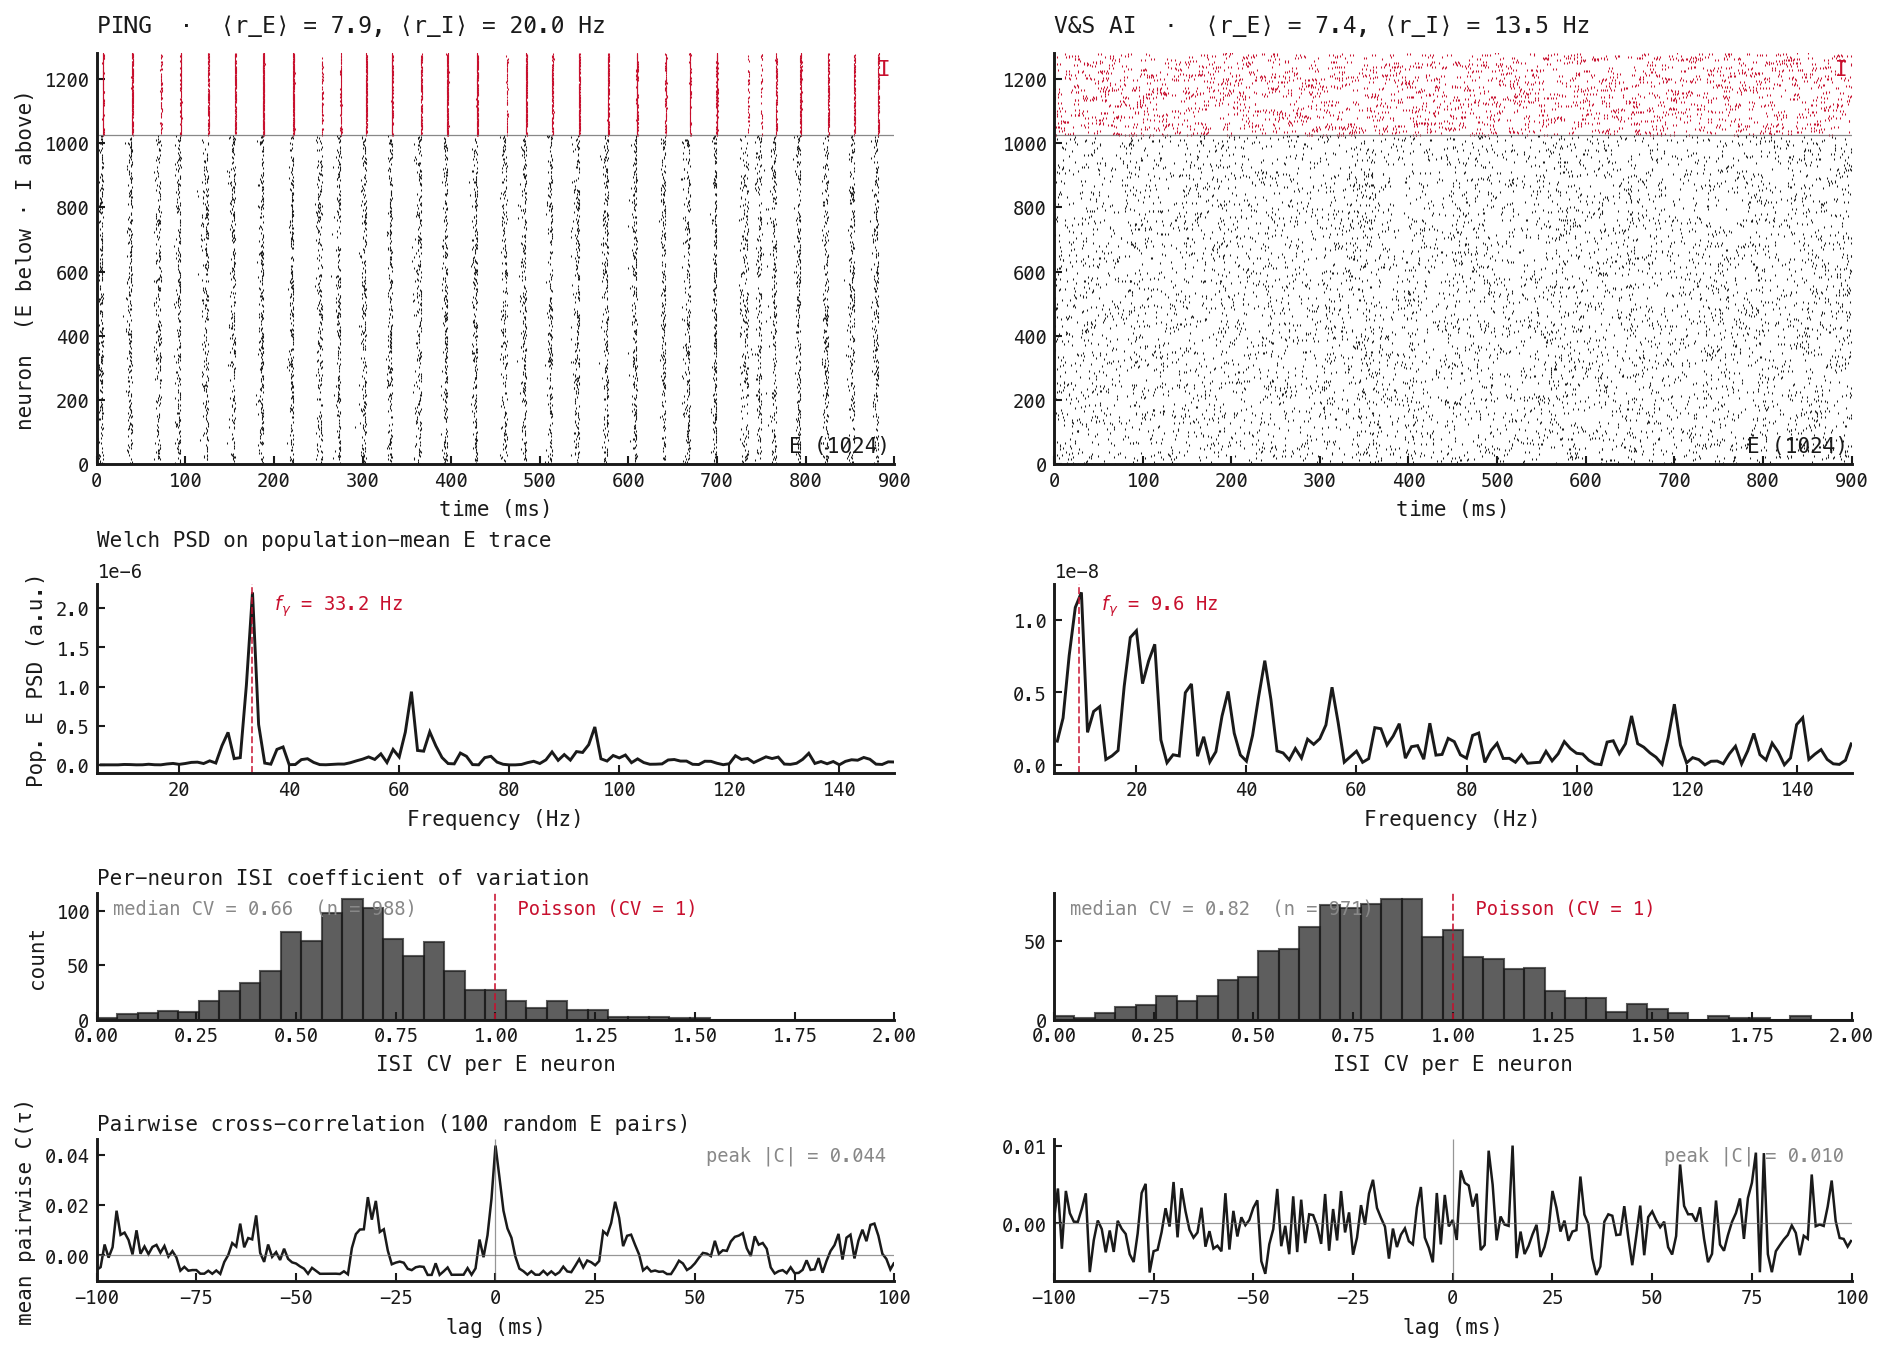
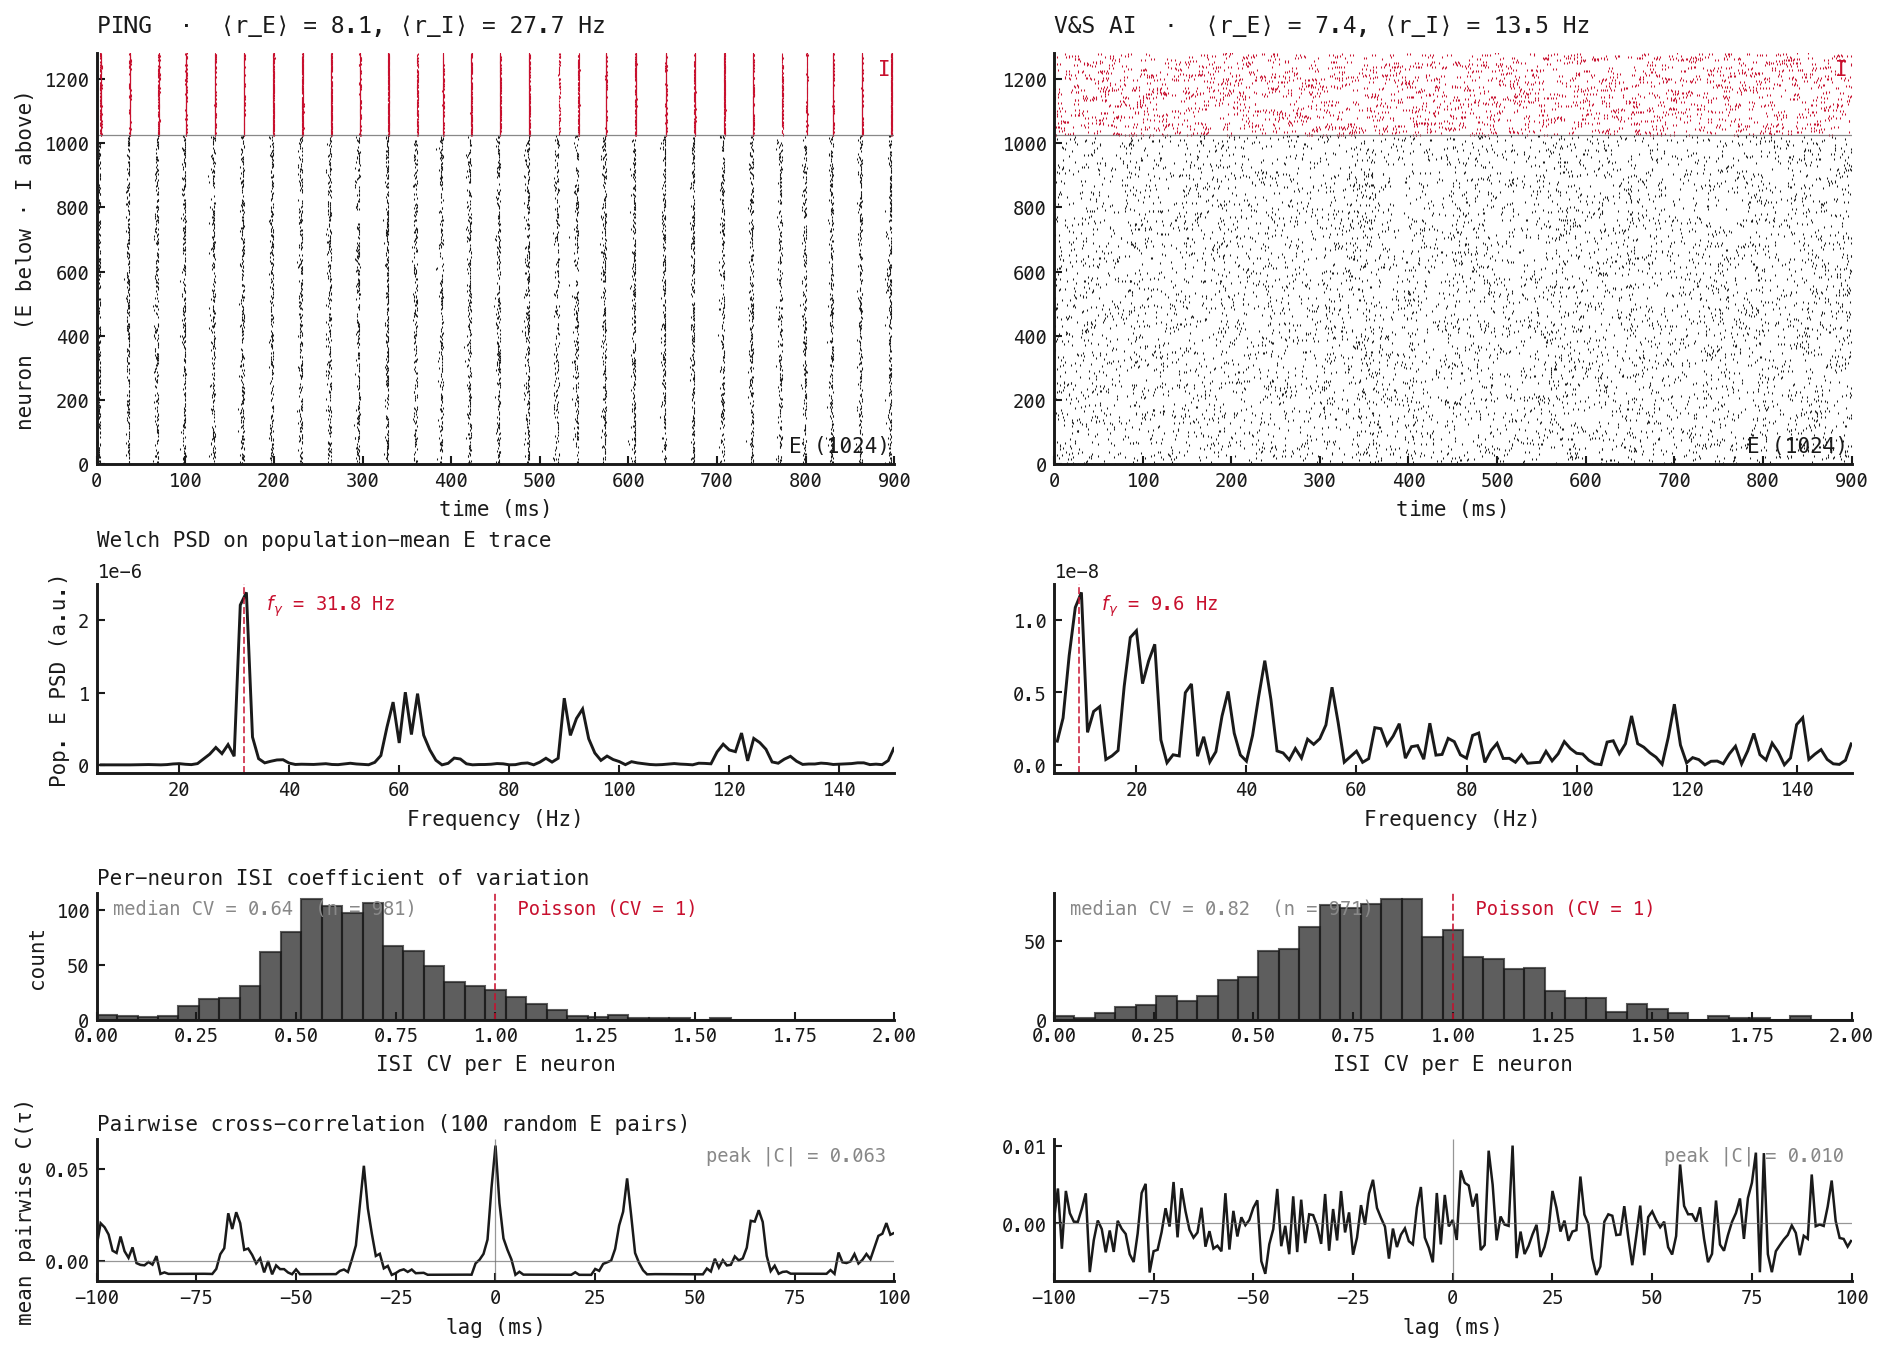
docs(nb050): harmonise input rate — both drives at 45 Hz on E
Bump PING's shared input layer from 20 Hz to 45 Hz to match the V&S
cell's E drive rate (W_in scaled 1.5→0.8 so the network is not
overdriven). PING still gammas cleanly — 32 Hz peak, cross-corr 0.063,
ISI-CV 0.64. The drive-rate row now reads 45 Hz (E) on both sides, so
the input rate is no longer a difference; the only residual asymmetry is
the V&S cell's independent 8 Hz I-drive (PING's I is loop-driven).

Update the table, equations, figure titles/captions and the matched-rate
Next-step accordingly (it's now done; only the continuous correlation
knob remains). Retitle the entry "PING-AI state comparison".

diff --git a/src/notebooks/nb050.py b/src/notebooks/nb050.py
@@ -3,8 +3,8 @@ asynchronous-irregular state.
 
 Two COBANet cells that share everything — sparse fixed-K connectivity at
 p = 0.2, matched E↔I weights, no W^II — and differ only in the external
-input: PING gets a shared (correlated) Poisson layer through W_in, the
-V&S cell gets per-cell independent drive. Renders two side-by-side
+input: PING gets a shared (correlated) 45 Hz Poisson layer through W_in,
+the V&S cell gets per-cell independent drive. Renders two side-by-side
 figures: the input each receives, and a four-panel raster comparison
 (combined E+I raster, Welch PSD, ISI-CV histogram, cross-correlogram).
 """
@@ -59,8 +59,10 @@ CELLS: dict[str, dict] = {
         "args": [
             *SHARED_CONN, *SHARED_W,
             # The ONLY difference: a shared (correlated) input layer — a
-            # common 20 Hz Poisson drive read by every E cell through W_in.
-            "--input-rate", "20", "--w-in", "1.5", "0.3",
+            # common 45 Hz Poisson drive read by every E cell through W_in
+            # (rate matched to the AI cell's E drive; W_in scaled down so the
+            # network is not overdriven).
+            "--input-rate", "45", "--w-in", "0.8", "0.16",
         ],
         "title": "PING — gamma (shared, correlated input)",
     },
@@ -344,7 +346,7 @@ def plot_raster_compare(snaps: dict, out_path: Path) -> None:
 
 def plot_input_compare(snaps: dict, out_path: Path) -> None:
     """The external drive each regime receives, side by side. PING reads a
-    1024-neuron input layer at 20 Hz through a dense W_in (a common drive to
+    1024-neuron input layer at 45 Hz through a dense W_in (a common drive to
     all E cells); the V&S AI cell gets one private 45 Hz Poisson stream per E
     cell. Top row: a raster of the drive over a 300 ms window. Bottom row:
     its population rate over time — featureless, steady Poisson in both, so
@@ -353,7 +355,7 @@ def plot_input_compare(snaps: dict, out_path: Path) -> None:
     from matplotlib.gridspec import GridSpec
     INPUT_CLR = "#2c7fb8"
     order = [c for c in ("ping", "ai") if c in snaps]
-    titles = {"ping": "PING — input layer, 20 Hz Poisson (dense $W_{in}$ to all E)",
+    titles = {"ping": "PING — input layer, 45 Hz Poisson (dense $W_{in}$ to all E)",
               "ai": "V&S AI — per-cell streams, 45 Hz Poisson (one per E)"}
     fig = plt.figure(figsize=(13.0, 6.2), dpi=150)
     gs = GridSpec(2, len(order), figure=fig, height_ratios=[3.0, 1.3],